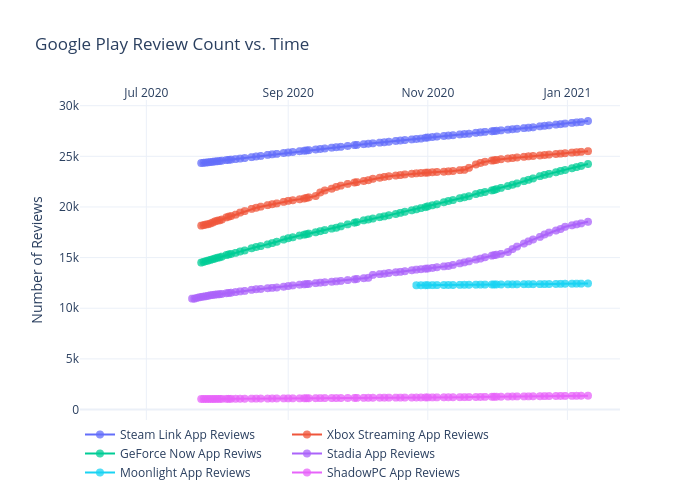
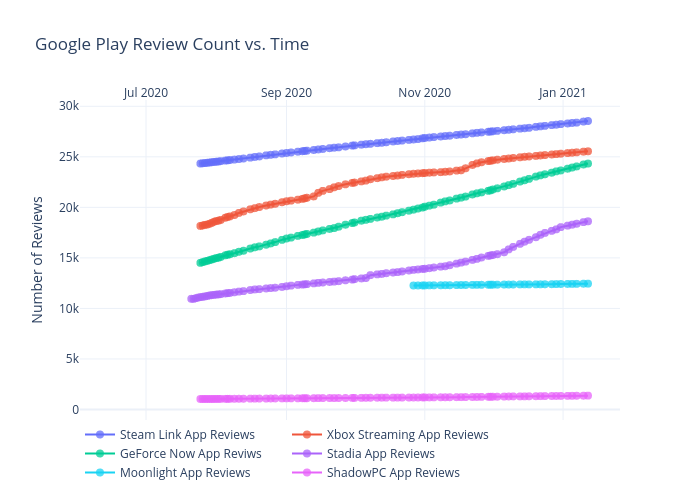
Add files via upload

diff --git a/googleplay/figure.js b/googleplay/figure.js
@@ -202,7 +202,8 @@ var figure = {
                 "28301",
                 "28349",
                 "28382",
-                "28490"
+                "28490",
+                "28544"
             ],
             "marker": {
                 "size": 8,
@@ -414,7 +415,8 @@ var figure = {
                 "25370",
                 "25404",
                 "25443",
-                "25511"
+                "25511",
+                "25544"
             ],
             "marker": {
                 "size": 8,
@@ -626,7 +628,8 @@ var figure = {
                 "23824",
                 "23939",
                 "24049",
-                "24242"
+                "24242",
+                "24332"
             ],
             "marker": {
                 "size": 8,
@@ -838,7 +841,8 @@ var figure = {
                 "18189",
                 "18284",
                 "18379",
-                "18538"
+                "18538",
+                "18618"
             ],
             "marker": {
                 "size": 8,
@@ -1050,7 +1054,8 @@ var figure = {
                 "12423",
                 "12427",
                 "12429",
-                "12445"
+                "12445",
+                "12449"
             ],
             "marker": {
                 "size": 8,
@@ -1262,7 +1267,8 @@ var figure = {
                 "1344",
                 "1352",
                 "1358",
-                "1364"
+                "1364",
+                "1369"
             ],
             "marker": {
                 "size": 8,
@@ -1281,8 +1287,8 @@ var figure = {
             "side": "top",
             "type": "date",
             "range": [
-                "2020-06-03 03:20:50.1412",
-                "2021-01-22 20:39:09.8588"
+                "2020-06-03 00:22:46.0079",
+                "2021-01-24 23:37:13.9921"
             ],
             "title": {
                 "text": ""
@@ -1292,8 +1298,8 @@ var figure = {
         "yaxis": {
             "type": "linear",
             "range": [
-                -928.3878491217972,
-                30454.3878491218
+                -932.2516556291393,
+                30512.251655629138
             ],
             "title": {
                 "text": "Number of Reviews"
